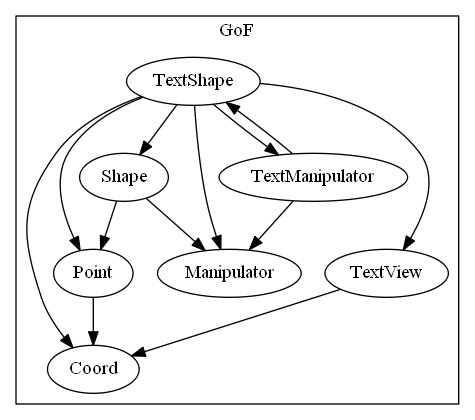
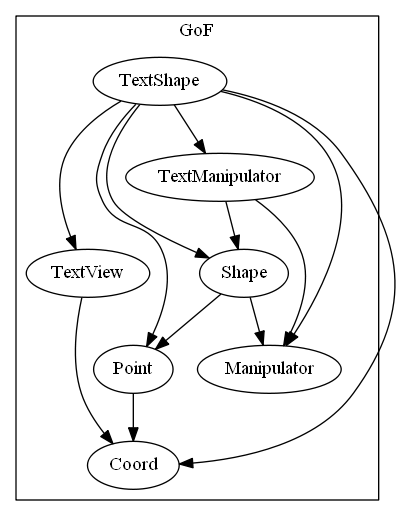
Remove dependency that is not in the book

diff --git a/Adapter/GoF.h b/Adapter/GoF.h
@@ -13,12 +13,6 @@ namespace AdapterPattern::GoF
 	};
 	class Manipulator {};
 
-	class TextShape;
-	class TextManipulator : public Manipulator {
-	public:
-		TextManipulator(const TextShape*) {}
-	};
-
 	class Shape {
 	public:
 		Shape() {}
@@ -26,6 +20,11 @@ namespace AdapterPattern::GoF
 			Point& bottomLeft, Point& topRight
 		) const {}
 		virtual Manipulator* CreateManipulator() const { return nullptr; }
+	};
+
+	class TextManipulator : public Manipulator {
+	public:
+		TextManipulator(const Shape*) {}
 	};
 
 	class TextView {

diff --git a/README.md b/README.md
@@ -28,7 +28,7 @@ of the graphs taken for this article and, where it warns of a cycle in the graph
 and potentially refactored. Cycles are observed in the graphs for
 
 * Creational Patterns : [Singleton](./README.md#singleton)
-* Structural Patterns : [Adapter](./README.md#adapter), [Composite](./README.md#composite), [Facade](./README.md#facade)
+* Structural Patterns : [Composite](./README.md#composite), [Facade](./README.md#facade)
 * Behavioural Patterns : [Interpreter](./README.md#interpreter), [Mediator](./README.md#mediator), [Observer](./README.md#observer), [State](./README.md#state), [Visitor](./README.md#visitor)
 
 ## Creational Patterns
